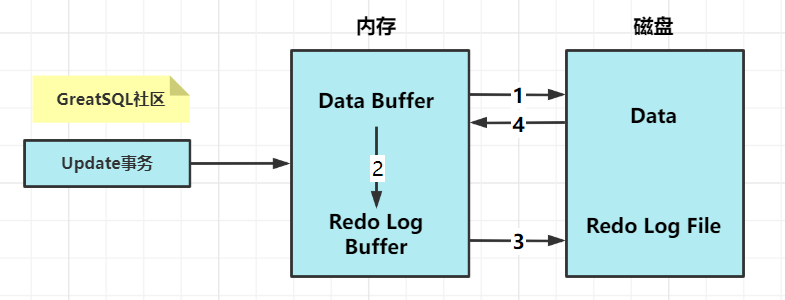
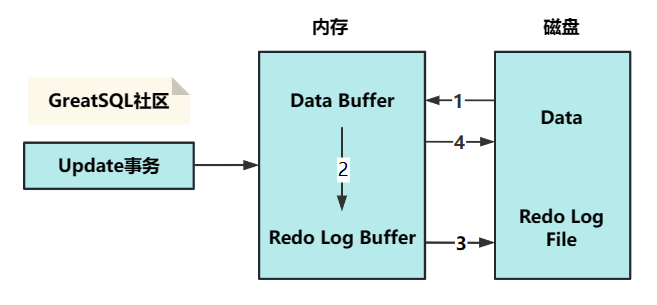
修改文档图片错误

diff --git a/2-about-greatsql/4-5-greatsql-redo-log.md b/2-about-greatsql/4-5-greatsql-redo-log.md
@@ -111,10 +111,10 @@ REDO日志文件如图所示，其中的`ib_logfile0`和`ib_logfile1`即为Redo 
 
 流程说明：
 
-- **第1步：**先将原始数据从磁盘中读入内存中来，修改数据的内存拷贝（上图中箭头1、4方向画反了）
-- **第2步：**生成一条重做日志并写入Redo Log Buffer，记录的是数据被修改后的值
-- **第3步：**当事务commit时，将Redo Log Buffer中的内容刷新到 Redo Log File，对 Redo Log File采用追加写的方式
-- **第4步：**定期将内存中修改的数据刷新到磁盘中
+- **第1步**：先将原始数据从磁盘中读入内存中来，修改数据的内存拷贝
+- **第2步**：生成一条重做日志并写入Redo Log Buffer，记录的是数据被修改后的值
+- **第3步**：当事务commit时，将Redo Log Buffer中的内容刷新到 Redo Log File，对 Redo Log File采用追加写的方式
+- **第4步**：定期将内存中修改的数据刷新到磁盘中
 
 ## Redo Log的刷盘策略
 
